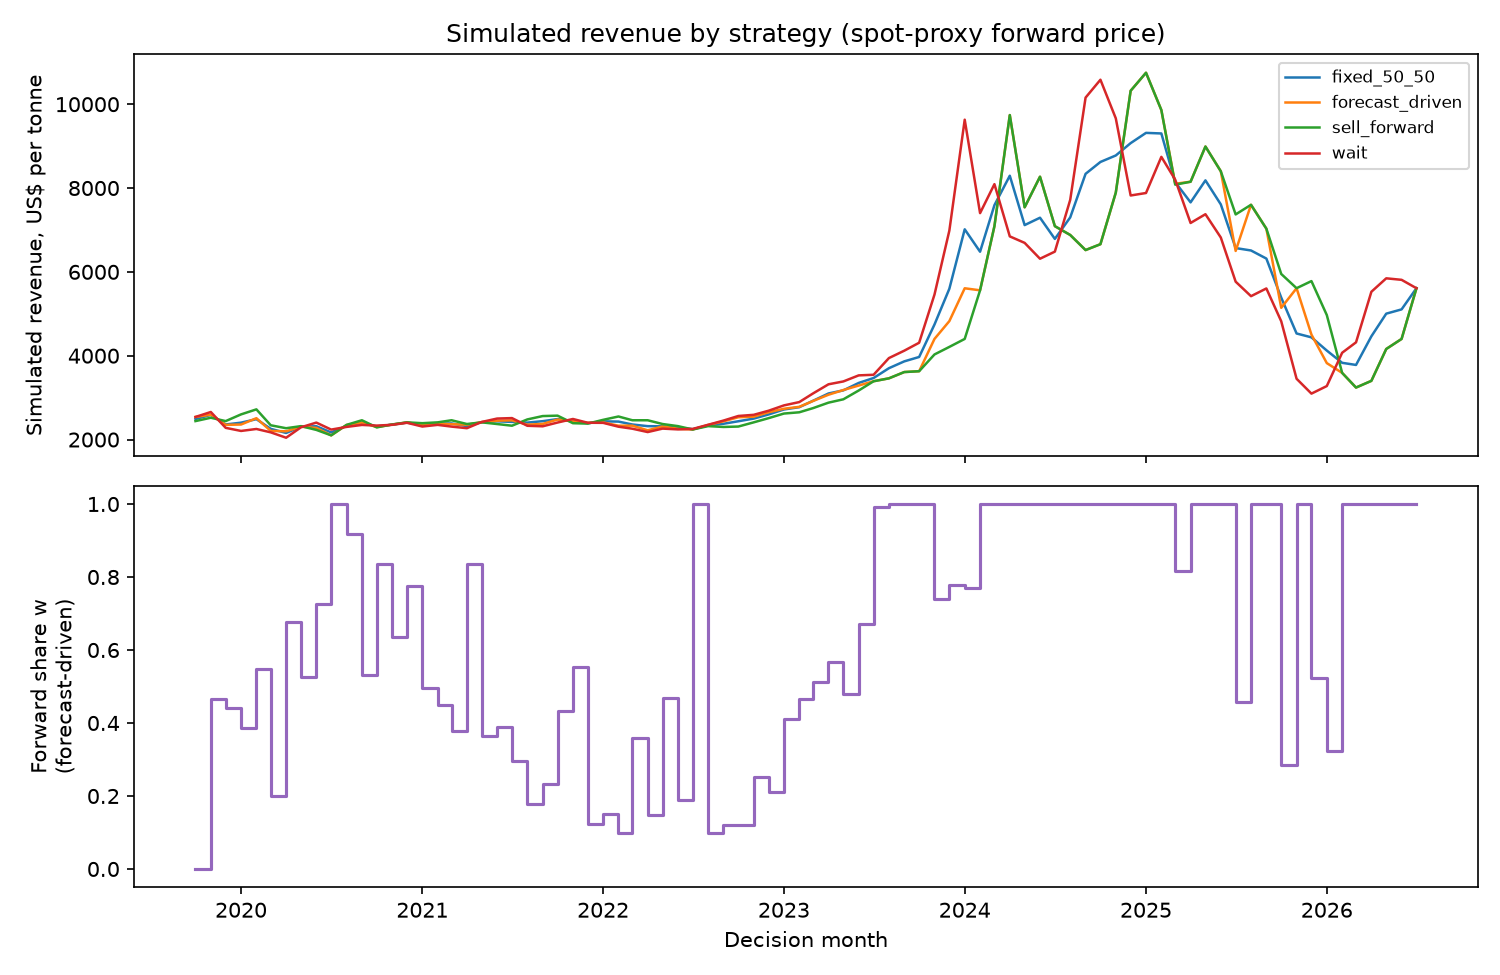
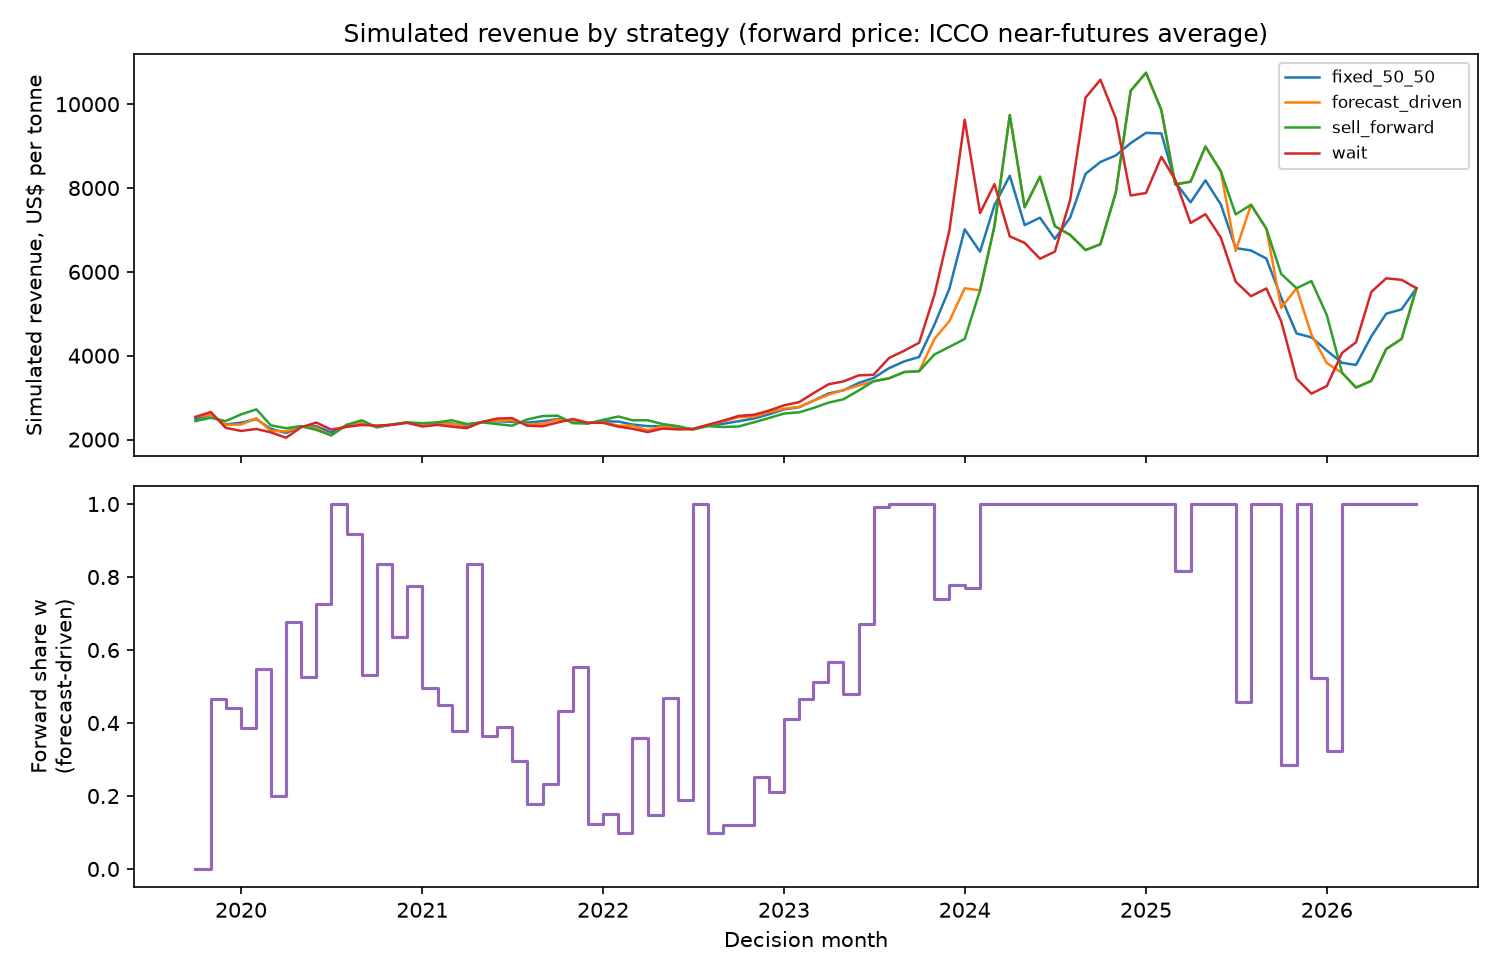
docs: forward price is an ICCO near-futures average, not spot (D18)
No openly licensed contract-by-contract ICE cocoa history exists for
2019-2026 (ICE/Databento paid, Barchart login + no redistribution, free
sites front-month only). The World Bank Pink Sheet defines its cocoa price
as the average of the nearest three futures positions in New York and
London, so the 'spot proxy' is already a near-futures price. Wording in
docs, figure title and dashboard corrected; no result or frozen setting
changes.

Changed region(s): [[0.2453, 0.0308, 0.8587, 0.0615]]

diff --git a/src/cocoasense/simulation/futures_provider.py b/src/cocoasense/simulation/futures_provider.py
@@ -1,8 +1,9 @@
 """Forward-price providers.
 
-``spot_proxy`` (default, free data only): the forward price for delivery at t+h is approximated
-by the monthly average spot price at the decision month t. This ignores the futures basis
-(contango/backwardation) and is the main simplification of the simulation.
+``spot_proxy`` (default, free data only): the forward price for delivery at t+h is the decision
+month's World Bank/ICCO price. Despite the name, that series is the average of the nearest three
+futures positions on ICE New York and London, so it is a near-futures price rather than the exact
+t+h contract; it averages maturities and exchanges (docs/decisions.md D18).
 
 ``futures``: reads a user-supplied CSV of contract settlements with columns
 ``date, contract_month, settle`` (USD/tonne). No futures data is fetched by this project.
@@ -27,7 +28,7 @@ class FuturesProvider(Protocol):
 
 
 class SpotProxyProvider:
-    """F_t = monthly average spot price of the decision month."""
+    """F_t = decision-month World Bank/ICCO price (nearest-three-futures average)."""
 
     mode = "spot_proxy"
 
@@ -35,7 +36,7 @@ class SpotProxyProvider:
         self.price = price
 
     def forward_price(self, decision_date: pd.Timestamp, delivery: pd.Timestamp) -> float:
-        """Spot price at the decision month (delivery month is ignored)."""
+        """Price at the decision month (delivery month is ignored)."""
         return float(self.price.loc[decision_date])
 
 

diff --git a/src/cocoasense/dashboard/pages/3_Strategy_Simulator.py b/src/cocoasense/dashboard/pages/3_Strategy_Simulator.py
@@ -26,8 +26,9 @@ fz = frozen["simulation"]
 sim_cfg = data.cfg().simulation
 st.markdown(
     f"Frozen rule (chosen on 2016–2019 validation data): **{data.label(fz['driver_model'])}** "
-    f"forecasts, **a = {fz['a']}**, horizon **{fz['horizon']} months**. Forward price = spot "
-    "price at the decision month (*spot proxy*: no futures data)."
+    f"forecasts, **a = {fz['a']}**, horizon **{fz['horizon']} months**. Forward price = the "
+    "decision month's World Bank/ICCO price, an average of the nearest three futures positions "
+    "(not the exact delivery contract; no openly licensed contract data exists)."
 )
 
 c1, c2, c3 = st.columns(3)

diff --git a/src/cocoasense/evaluation/figures.py b/src/cocoasense/evaluation/figures.py
@@ -143,7 +143,7 @@ def strategy_outcomes(results: pd.DataFrame, path: Path) -> None:
         g = g.sort_values("decision_date")
         axes[0].plot(g["decision_date"], g["revenue_per_t"], label=str(name), lw=1.2)
     axes[0].set_ylabel("Simulated revenue, US$ per tonne")
-    axes[0].set_title("Simulated revenue by strategy (spot-proxy forward price)")
+    axes[0].set_title("Simulated revenue by strategy (forward price: ICCO near-futures average)")
     axes[0].legend(fontsize=8)
     fd = results[results["strategy"] == "forecast_driven"].sort_values("decision_date")
     axes[1].step(fd["decision_date"], fd["w"], where="post", color="#9467bd")

diff --git a/docs/limitations.md b/docs/limitations.md
@@ -4,11 +4,17 @@
    assumptions in `simulation_assumptions.md`. They are not Ghana's or COCOBOD's gains or losses,
    which depend on contract terms, delivery obligations, counterparty risk and costs that are not
    public.
-2. **Spot proxy for forward prices.** Without contract-level futures data, the forward price is
-   approximated by the decision-month spot price, ignoring the futures basis. Cocoa futures were
-   widely reported to be in steep backwardation during the 2024 surge (later delivery priced below
-   spot); if so, this proxy overstates what forward selling would have earned in that period.
-   Verify with contract-level data before relying on surge-period strategy results.
+2. **Approximate forward price.** No free, openly licensed source of contract-by-contract ICE
+   cocoa settlements was found (ICE sells end-of-day history; Barchart needs a login and forbids
+   redistribution; free sites offer only a continuous front-month series), so the exact contract
+   for each delivery month is not used (decision D18). The forward price is the decision month's
+   World Bank/ICCO price, which is itself a futures price: the average of the nearest three
+   futures positions in New York and London (Pink Sheet definition). It therefore already
+   reflects prices for delivery a few months ahead, but it averages several maturities and two
+   exchanges, and is a monthly average. During the 2024 surge the curve was widely reported to be
+   in steep backwardation (later delivery priced well below nearby); averaging over three
+   positions softens but does not remove that effect, so surge-period results for forward selling
+   should be read with care.
 3. **Monthly averages.** Both forecasts and simulated sales use monthly average prices, which are
    smoother than the daily prices at which contracts are actually struck.
 4. **Small sample.** Roughly 800 months of history, of which the test period has about 80 months
@@ -24,7 +30,7 @@
    deliveries to January 2026 only (73 of 82). The cedi view uses a monthly average rate; the
    rates COCOBOD actually received are not public.
 8. **No fundamentals.** Production, grindings and stocks data (paid ICCO bulletins) are not used.
-9. **Model scope.** Futures-curve simulation is a stretch item and is not part of the results.
+9. **Model scope.** Exact-contract futures prices are not used (item 2, decision D18).
    The LSTM stretch model was added after the main test run (decision D16). Its configuration and
    frozen settings were committed before its own test run, but it was designed by someone who had
    already seen the other models' test results, so its test is not fully blind. It is reported

diff --git a/docs/decisions.md b/docs/decisions.md
@@ -159,3 +159,20 @@ Each entry: date, options considered, choice, reason. Newest last.
   setting changes; (c) would need its own validation → freeze cycle and was not asked for.
 - **Consequence:** all strategies on a date share one rate, so the per-date winner and the win
   rates are the same as in US$; only the weighting across dates changes (weak-cedi years count more).
+
+## D18 · 2026-11-05 · Futures-curve data: not available under open terms; forward price clarified
+- **Context:** the author asked for futures-curve data to replace the forward-price approximation.
+- **Search:** ICE's end-of-day settlement history is sold by subscription; Barchart's per-contract
+  downloads need a login and its terms forbid redistribution; Databento sells ICE US data (from
+  Dec 2018) on paid plans; Investing.com, Yahoo and Stooq offer only a continuous front-month
+  series under restrictive terms; TradingCharts has charts only; ICCO publishes one averaged daily
+  price. Nothing openly licensed gives each contract month for 2019–2026.
+- **Finding:** the World Bank Pink Sheet (`Description` sheet of the raw file) defines the cocoa
+  price as the ICCO daily price, "average of the first three positions on the terminal markets of
+  New York and London, nearest three future trading months". The `spot_proxy` forward price is
+  therefore already a near-futures average, not a spot price; earlier docs called it spot.
+- **Choice:** no new data and no change to any result or frozen setting. Docs, figure titles and
+  the dashboard now describe the forward price correctly. The mode keeps its `spot_proxy` name
+  because it is recorded in frozen artifacts. `CsvFuturesProvider` stays ready for licensed
+  contract data (`forward_price_mode: futures`); such a run would be a separately labelled
+  sensitivity, since the frozen rule was chosen with the current forward price.

diff --git a/docs/viva_prep.md b/docs/viva_prep.md
@@ -37,8 +37,14 @@ Converted at the delivery-month rate (D17), the ranking of strategies is the sam
 strategy on a date gets the same rate. Simulated cedi revenue per tonne rose ×7.7 from 2020 to
 2025; about 60 % of that (in log terms) was cocoa prices and 40 % cedi depreciation.
 
+**Why not use real futures prices?**
+No free, openly licensed contract-by-contract history exists for ICE cocoa (D18). But the World
+Bank price is already a futures price: the ICCO average of the nearest three positions in New York
+and London. So the forward price is a near-futures average, not a spot price. What it misses is
+the exact contract for each delivery month, which matters most when the curve is steep, as in 2024.
+
 **Is this Ghana's real gain or loss?**
-No. It is a simulation on public monthly prices with a spot-proxy forward price. Contract terms,
+No. It is a simulation on public monthly prices with an approximate forward price. Contract terms,
 basis, financing arrangements and delivery obligations are not public (`docs/limitations.md`).
 
 **How did you choose `a` and the training start?**
@@ -54,7 +60,7 @@ Twice the history (1960 vs 1992), same underlying ICCO price; they agree to with
 average over 417 common months (`artifacts/data_quality.md`).
 
 **What would you do next?**
-Contract-level futures data to replace the spot proxy; a volatility-regime guard that falls back
+Contract-level futures data (licensed) for the exact delivery contract; a volatility-regime guard that falls back
 to a fixed split; supply-side features (production, weather) obtained legally; a comparison with
 periodically refitted models, reported separately from the frozen result.
 

diff --git a/docs/results.md b/docs/results.md
@@ -106,8 +106,9 @@ cedi responds to cocoa export earnings more than it drives world prices.
 
 ## 5. Forward-sales simulation (sub-question 3)
 
-Frozen rule: XGBoost-driven, `a = 2.0`, horizon 3 months, forward price = decision-month spot
-price (spot proxy), financing 10 % a year, 82 decision months 2019-10 – 2026-07. Source:
+Frozen rule: XGBoost-driven, `a = 2.0`, horizon 3 months, forward price = decision-month
+World Bank/ICCO price (an average of the nearest three futures positions; see
+`simulation_assumptions.md`), financing 10 % a year, 82 decision months 2019-10 – 2026-07. Source:
 `artifacts/simulation/strategy_metrics.md`.
 
 | Period | Strategy | Mean US$/t | Worst 10 % mean US$/t | Regret vs best fixed | Win rate vs 50/50 | Mean forward share |
@@ -152,8 +153,9 @@ price (spot proxy), financing 10 % a year, 82 decision months 2019-10 – 2026-0
 
 It shows that, under the stated assumptions and on public monthly prices, models frozen at the end
 of 2019 would not have improved a simple forward-selling policy over 2020–2026, and it explains
-why. It does not measure Ghana's or COCOBOD's actual gains or losses, and the spot-proxy forward
-price probably overstates what forward selling earned during the surge (`limitations.md`).
+why. It does not measure Ghana's or COCOBOD's actual gains or losses, and the averaged
+near-futures forward price may overstate what forward selling earned during the surge, when the
+curve was in steep backwardation (`limitations.md`).
 
 ## 8. LSTM stretch model (added after the main final run)
 

diff --git a/docs/simulation_assumptions.md b/docs/simulation_assumptions.md
@@ -14,10 +14,13 @@ share *w* forward at price *F_t* and the remainder at the delivery-month price *
 
 ## Assumptions
 
-1. **Forward price (spot proxy).** With free data only, *F_t* is the monthly average spot price of
-   month *t*. Real forward/futures prices differ from spot by a basis (carry, convenience yield),
-   which is ignored. A `CsvFuturesProvider` accepts user-supplied settlement prices
-   (`date, contract_month, settle`) to replace this; none were used for the reported results.
+1. **Forward price (`spot_proxy` mode).** *F_t* is the decision month's World Bank/ICCO cocoa
+   price. Despite the mode's name, this is not a spot price: the Pink Sheet defines it as the
+   ICCO daily price, the average of the first three positions (nearest three futures months) on
+   ICE New York and ICE London, averaged over the month. So *F_t* is a near-futures price for
+   delivery roughly one to six months ahead, not the exact contract for month *t + h*. A
+   `CsvFuturesProvider` accepts contract settlements (`date, contract_month, settle`) to use the
+   exact contract instead; no openly licensed source was found, so none were used (decision D18).
 2. **Delivery price.** *P_{t+h}* is the monthly average price of the delivery month (the same
    series as the forecasts). Intra-month timing is ignored.
 3. **Financing cost.** The unsold share is financed until delivery at an annual rate *r* (default
